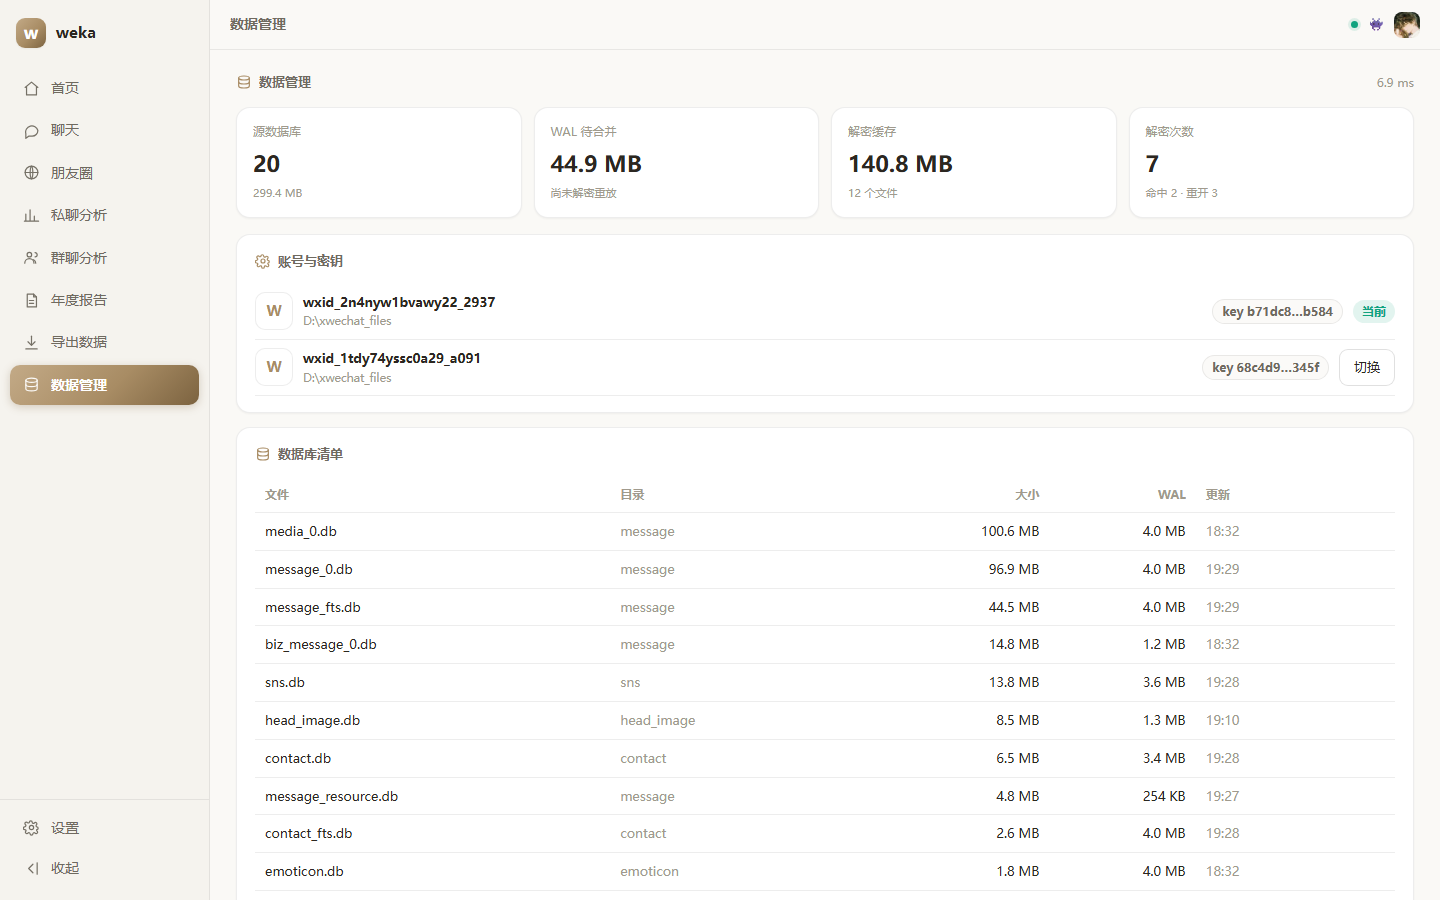
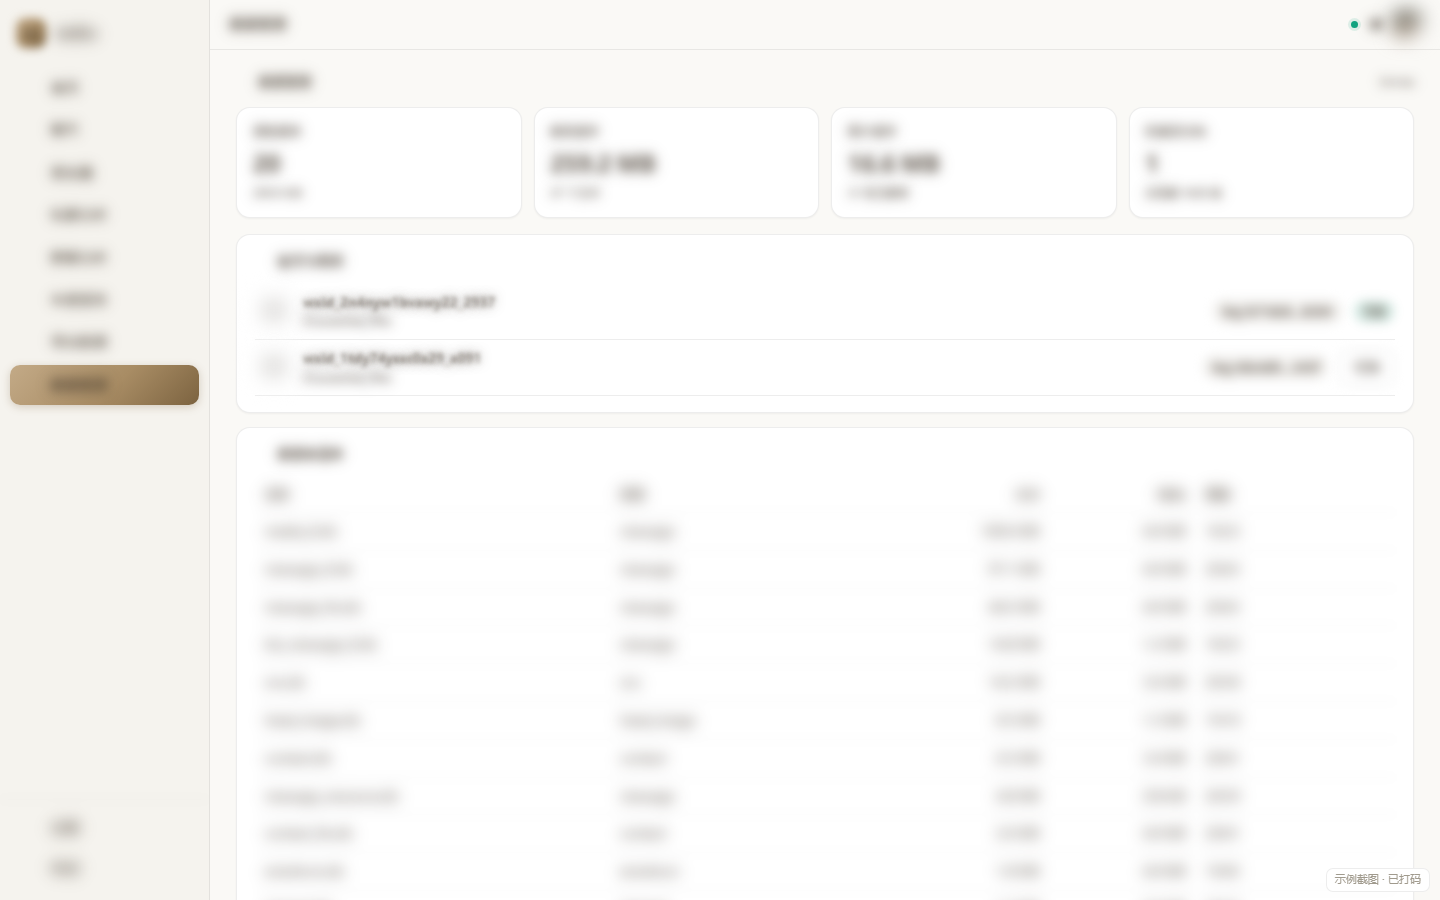
add_blur

diff --git a/public/app.js b/public/app.js
@@ -1,4 +1,4 @@
-// weka 前端（零依赖 SPA）
+// weka 前端（零依赖 SPA）
 const $ = (s, r = document) => r.querySelector(s)
 const $$ = (s, r = document) => [...r.querySelectorAll(s)]
 
@@ -36,6 +36,7 @@ const S = {
   account: localStorage.getItem('weka.account') || '',
   theme: localStorage.getItem('weka.theme') || 'light',
   myName: '',
+  privacy: localStorage.getItem('weka.privacy') === '1',
   chat: { current: null, oldest: null, hasMore: false, loading: false, recalled: [], showRecalled: localStorage.getItem('weka.showRecalled') === '1' },
   mom: { keyword: '', from: '', to: '', contact: '', offset: 0, items: [] },
   pick: { p2p: null, group: null, annualYear: null },
@@ -166,7 +167,7 @@ async function pageHome(el) {
           <div class="tip">聊天图片解密：${meta.imageKeys ? '<b style="color:var(--primary)">已配置密钥</b>' : '未配置'}</div>
           <div class="tip">WXGF→图片转码：${meta.ffmpeg ? '<b style="color:var(--primary)">ffmpeg 就绪</b>' : '缺少 ffmpeg'}</div>
           <div class="tip">防撤回：旁路归档持续记录中（不改动微信数据库）</div>
-          <div class="tip">语音转文字：需下载 SenseVoice 模型（设置 → 语音转文字）</div>
+          <div class="tip">语音转文字：${meta.voiceReady ? '<b style="color:var(--primary)">SenseVoice 已就绪</b>' : '需下载 SenseVoice 模型（设置 → 语音转文字）'}</div>
         </div>
       </div>
     </div>`
@@ -958,6 +959,13 @@ async function pageSettings(el) {
           </select></div>
         <div class="row" style="padding:8px 0"><span>侧栏</span><span class="spacer"></span>
           <button class="btn" id="toggle-collapse">展开 / 收起</button></div>
+        <div class="row" style="padding:8px 0">
+          <div><div>截图打码模式</div>
+          <div class="muted" style="font-size:11.5px">把所有文字和头像模糊掉，方便分享截图</div></div>
+          <span class="spacer"></span>
+          <label class="switch"><input type="checkbox" id="privacy-toggle" ${S.privacy ? 'checked' : ''} />
+            <span class="switch-track"><span class="switch-thumb"></span></span></label>
+        </div>
       </div>`,
     security: () => `
       <div class="card" style="margin-bottom:14px">
@@ -1030,6 +1038,12 @@ async function pageSettings(el) {
       document.documentElement.dataset.mode = S.theme
     })
     $('#toggle-collapse')?.addEventListener('click', toggleCollapse)
+    $('#privacy-toggle')?.addEventListener('change', (e) => {
+      S.privacy = e.target.checked
+      localStorage.setItem('weka.privacy', S.privacy ? '1' : '0')
+      document.documentElement.dataset.privacy = S.privacy ? '1' : '0'
+      toast(S.privacy ? '已开启打码模式' : '已关闭打码模式')
+    })
     // 语音页：拉取真实模型状态
     if (S.setTab === 'voice') loadVoiceStatus()
   }
@@ -1116,6 +1130,13 @@ function toggleCollapse() {
 
 async function boot() {
   document.documentElement.dataset.mode = S.theme
+  // 打码模式：?privacy=1 强制开启，?privacy=0 强制关闭
+  const qp = new URLSearchParams(location.search).get('privacy')
+  if (qp === '1' || qp === '0') {
+    S.privacy = qp === '1'
+    localStorage.setItem('weka.privacy', S.privacy ? '1' : '0')
+  }
+  document.documentElement.dataset.privacy = S.privacy ? '1' : '0'
   $$('.nav-icon[data-icon]').forEach((n) => (n.innerHTML = icon(n.dataset.icon)))
   if (localStorage.getItem('weka.collapsed') === '1') $('#app').classList.add('collapsed')
   $('#collapse-btn').addEventListener('click', toggleCollapse)
@@ -1136,5 +1157,6 @@ async function boot() {
 }
 
 boot()
+
 
 

diff --git a/public/style.css b/public/style.css
@@ -464,3 +464,58 @@ html, body {
 .search-hit:hover { background: var(--card-2); }
 .search-text { flex: 1; min-width: 0; word-break: break-word; }
 .search-text mark { background: var(--gold-soft); color: var(--gold-3); border-radius: 3px; padding: 0 2px; }
+
+/* ================= 截图打码模式（隐私保护） =================
+   开启后所有文字与头像做模糊处理，布局与图表保持不变，方便分享截图 */
+html[data-privacy='1'] :is(
+  .brand-text, .nav-label, .topbar-user, .hero-name, .chip,
+  .session-name, .session-summary, .session-meta,
+  .chat-title, .chat-sub, .msg-head, .bubble, .day-sep, .empty,
+  .stat-label, .stat-value, .stat-sub, .card-title, .info-bar, .tips .tip,
+  .moment-head, .moment-text, .moment-media, .moment-comment, .moment-likes,
+  .filter-title, .contact-mini, .input, .btn, .perf,
+  .search-head, .search-hit, .hbar, .bar-labels, .donut-legend,
+  .picker-row, .fmt-name, .fmt-desc, .year-card, .annual-title,
+  .table, .side-title, .switch-label, .chat-status, .voice-dur, .voice-text,
+  .lang-card, .opt, .heat, .poster-note
+) {
+  filter: blur(5px);
+  user-select: none;
+}
+html[data-privacy='1'] :is(
+  .avatar, .avatar-sm, .avatar-xs, .hero-avatar, .msg-avatar,
+  .msg-image, .topbar-avatar, .stat-ic
+) {
+  filter: blur(8px) saturate(0.7);
+}
+html[data-privacy='1'] body::after {
+  content: '示例截图 · 已打码';
+  position: fixed; right: 10px; bottom: 8px; z-index: 300;
+  font-size: 11px; color: var(--text-3); background: var(--card);
+  border: 1px solid var(--line); border-radius: 7px; padding: 2px 8px;
+  pointer-events: none;
+}
+
+/* 打码模式补充：漏网的小字（.muted / 状态栏 / 表格 / 页脚） */
+html[data-privacy='1'] :is(
+  .muted, .sidebar-foot, .chat-status, .perf, .table td, .table th,
+  .topbar-title, .hint, .brand, .poster, .day-sep, .empty, .loading
+) { filter: blur(5px); }
+
+/* ===== 打码模式（终极兜底）：所有文字一律遮罩，不依赖类名 ===== */
+html[data-privacy='1'] .app,
+html[data-privacy='1'] .app * {
+  color: transparent !important;
+  text-shadow: 0 0 11px rgba(70, 60, 48, 0.6), 0 0 4px rgba(70, 60, 48, 0.45) !important;
+  caret-color: transparent !important;
+}
+html[data-privacy='1'] .app ::placeholder {
+  color: transparent !important;
+  text-shadow: 0 0 11px rgba(70, 60, 48, 0.5) !important;
+}
+/* 图标靠 currentColor 描边，单独给个灰色，保持界面结构可辨 */
+html[data-privacy='1'] .app svg { color: rgba(120, 110, 95, 0.5) !important; }
+/* 头像 / 聊天图片保持模糊 */
+html[data-privacy='1'] .app :is(.avatar, .avatar-sm, .avatar-xs, .hero-avatar, .msg-avatar, .topbar-avatar, .msg-image) {
+  filter: blur(10px) saturate(0.6) !important;
+}

diff --git a/README.md b/README.md
@@ -6,7 +6,24 @@
 
 ## 界面
 
-![聊天（图片解密 + 独立滚动）](docs/ui-chat-images.png)
+> 下面所有截图都由 weka 内置的**打码模式**生成：文字统一模糊、头像与图片模糊，只保留布局、配色和图表形状。
+> 你自己使用时关掉打码（设置 → 外观 → 截图打码模式）就是正常界面。
+
+| 首页 | 聊天（图片解密 + 语音转写） |
+| --- | --- |
+| ![首页](docs/ui-home.png) | ![聊天](docs/ui-chat-voice.png) |
+
+| 朋友圈 | 私聊分析 |
+| --- | --- |
+| ![朋友圈](docs/ui-moments.png) | ![私聊分析](docs/ui-p2p-view.png) |
+
+| 年度报告 | 导出数据 |
+| --- | --- |
+| ![年度报告](docs/ui-annual.png) | ![导出数据](docs/ui-export.png) |
+
+| 数据管理 | 设置（语音转文字） |
+| --- | --- |
+| ![数据管理](docs/ui-data.png) | ![设置](docs/ui-settings-voice.png) |
 
 九个页面（设计参照 WeFlow / CipherTalk）：
 
@@ -20,7 +37,7 @@
 | 年度报告 | **年份卡片选择 → 生成报告**；逐月柱状图、时段热度、三张排行榜 |
 | 导出数据 | **双栏**：左侧会话多选（全部/群聊/私聊 + 全选/清空）、右侧格式卡片（JSON/TXT/HTML，JSONL/Excel/PostgreSQL 标注即将支持）+ 时间范围 + 导出选项 |
 | 数据管理 | 源库清单、解密缓存、图片缓存、防撤回归档、账号与脱敏密钥、账号切换 |
-| 设置 | 标签页：外观 / 数据解密 / 语音转文字 / 数据管理 / 关于 |
+| 设置 | 标签页：外观 / 数据解密 / 语音转文字 / 数据管理 / 关于；**截图打码模式** |
 
 ## 重点能力
 
@@ -195,13 +212,23 @@ models/             本地语音模型（SenseVoice int8）
 7. 密钥仍依赖 WeFlow 旧配置导入（数据库密钥 + 图片密钥）；尚未实现从微信进程内存直接取密钥
 8. 未打包成独立桌面应用（当前是本地 Web 界面）
 
-## 隐私
+## 截图打码模式
 
+想分享界面截图又不想暴露聊天内容时，打开打码模式：
+
+- 界面：设置 → 外观 → **截图打码模式**（开关状态会记住）
+- 命令行/自动化：给页面加 `?privacy=1`，例如 `http://127.0.0.1:7080/?privacy=1#/chat`
+- 效果：所有文字统一模糊成色块、头像与人像图片重度模糊，布局/配色/图表形状保持不变，右下角标注「示例截图 · 已打码」
+
+本 README 里的截图就是这么生成的。
+
+## 隐私
 weka 全程只读本地数据库文件，不发起任何网络请求、不上传任何数据；解密缓存保存在 `~/.weka/cache/`。
 
 ## 许可
 
 仅供个人备份与查阅自己的聊天记录使用。
+
 
 
 
